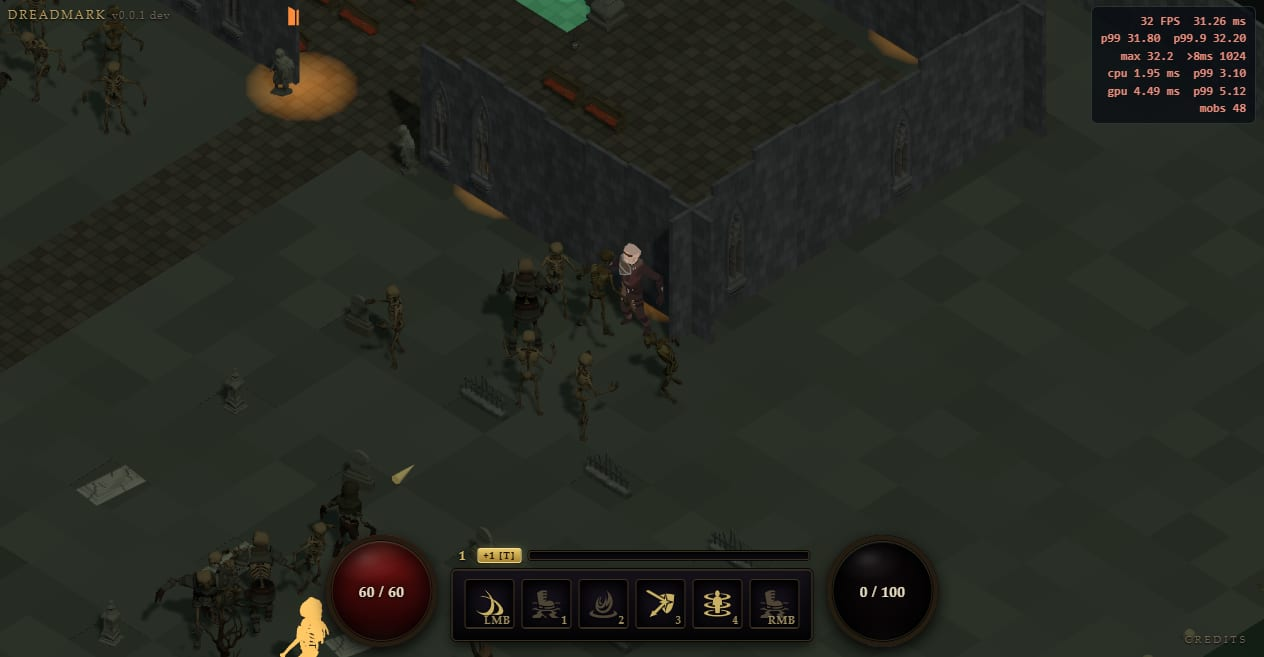
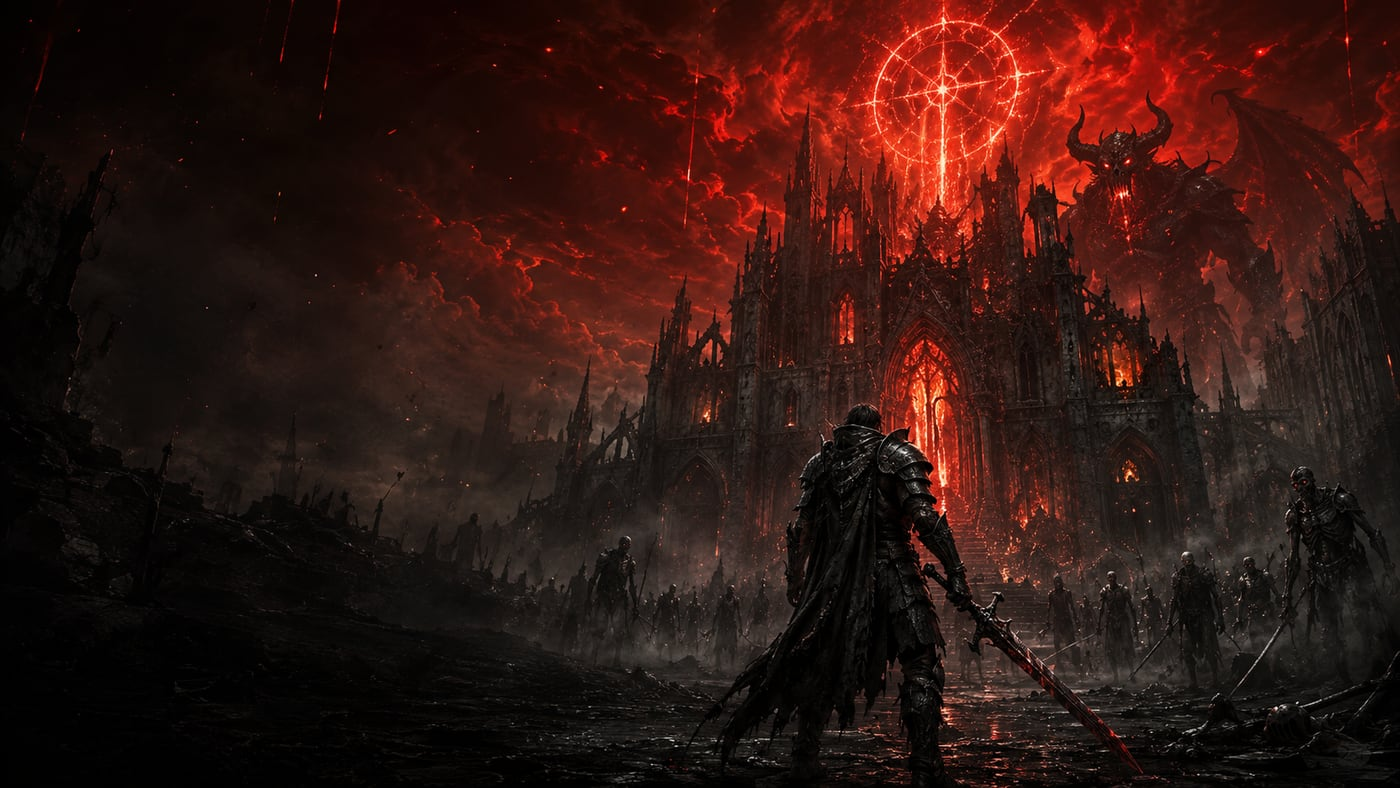
feat(portfolio): screenshots for private projects, portrait fit, homelab rename
- Rename "Production-Grade Homelab" → "Private Cloud Infrastructure"; use the
  real architecture diagram with the "Homelab" header cropped off
- Dreadmark: swap gameplay shot for AI key art
- NoBS: data-fit="contain" so portrait phone screenshots show the whole screen
- CloudDrive + Vehicle Telemetry: add screenshots (kept as private cards);
  vehicle sheet has home/work address columns redacted before publishing

diff --git a/index.html b/index.html
@@ -6,7 +6,7 @@
     <title>Codecraft AS — Software & Automation Engineering</title>
     <link rel="icon" type="image/svg+xml" href="favicon.svg">
     <meta name="description" content="Codecraft AS — Software engineering consultancy specializing in industrial control systems, subsea software, and AI-augmented development for the oil & gas and energy sectors.">
-    <link rel="stylesheet" href="styles.css?v=6">
+    <link rel="stylesheet" href="styles.css?v=7">
     <link rel="preconnect" href="https://fonts.googleapis.com">
     <link rel="preconnect" href="https://fonts.gstatic.com" crossorigin>
     <link href="https://fonts.googleapis.com/css2?family=Inter:wght@300;400;500;600;700;800&display=swap" rel="stylesheet">
@@ -172,7 +172,7 @@
                         <span class="ai-card-cta"><span data-en="View details" data-no="Se detaljer">View details</span> →</span>
                     </div>
                     <div class="ai-card ai-card--modal" role="button" tabindex="0"
-                         data-private="1">
+                         data-shot="images/projects/clouddrive.jpg?v=1" data-private="1">
                         <span class="ai-badge" data-en="Private" data-no="Privat">Private</span>
                         <div class="ai-card-icon">
                             <svg viewBox="0 0 24 24" fill="none" stroke="currentColor" stroke-width="2"><path d="M12 2L4 6v6c0 5 3.5 9.5 8 10 4.5-0.5 8-5 8-10V6l-8-4z"/></svg>
@@ -182,7 +182,7 @@
                         <span class="ai-card-cta"><span data-en="View details" data-no="Se detaljer">View details</span> →</span>
                     </div>
                     <div class="ai-card ai-card--modal" role="button" tabindex="0"
-                         data-private="1">
+                         data-shot="images/projects/vehicle.jpg?v=1" data-private="1">
                         <span class="ai-badge" data-en="Private" data-no="Privat">Private</span>
                         <div class="ai-card-icon">
                             <svg viewBox="0 0 24 24" fill="none" stroke="currentColor" stroke-width="2"><path d="M5 17h14M5 17l2-6h10l2 6M5 17v3h3v-3M16 17v3h3v-3"/><circle cx="8" cy="14" r="1"/><circle cx="16" cy="14" r="1"/></svg>
@@ -192,12 +192,12 @@
                         <span class="ai-card-cta"><span data-en="View details" data-no="Se detaljer">View details</span> →</span>
                     </div>
                     <div class="ai-card ai-card--modal" role="button" tabindex="0"
-                         data-shot="images/projects/homelab.jpg?v=1" data-private="1">
+                         data-shot="images/projects/homelab.jpg?v=2" data-private="1">
                         <span class="ai-badge" data-en="Private" data-no="Privat">Private</span>
                         <div class="ai-card-icon">
                             <svg viewBox="0 0 24 24" fill="none" stroke="currentColor" stroke-width="2"><rect x="3" y="4" width="18" height="6" rx="1"/><rect x="3" y="14" width="18" height="6" rx="1"/><circle cx="7" cy="7" r="0.5" fill="currentColor"/><circle cx="7" cy="17" r="0.5" fill="currentColor"/></svg>
                         </div>
-                        <h3 data-en="Production-Grade Homelab" data-no="Hjemmelab i produksjonskvalitet">Production-Grade Homelab</h3>
+                        <h3 data-en="Private Cloud Infrastructure" data-no="Privat sky-infrastruktur">Private Cloud Infrastructure</h3>
                         <p data-en="A multi-server environment evolved over two years into a small private cloud — 15+ services across web apps, automation, monitoring, and home systems. Standardised deployment pipeline, layered defence-in-depth security, three-tier backups with rehearsed recovery, and a living architecture reference maintained like a runbook." data-no="Et multi-server-miljø utviklet over to år til en liten privat sky — 15+ tjenester på tvers av webapper, automatisering, overvåking og hjemmesystemer. Standardisert utrullingspipeline, lagdelt defence-in-depth-sikkerhet, tre-lags backup med øvd gjenoppretting, og en levende arkitekturreferanse vedlikeholdt som en runbook.">A multi-server environment evolved over two years into a small private cloud — 15+ services across web apps, automation, monitoring, and home systems. Standardised deployment pipeline, layered defence-in-depth security, three-tier backups with rehearsed recovery, and a living architecture reference maintained like a runbook.</p>
                         <span class="ai-card-cta"><span data-en="View details" data-no="Se detaljer">View details</span> →</span>
                     </div>
@@ -223,7 +223,7 @@
                         <span class="ai-card-cta"><span data-en="View details" data-no="Se detaljer">View details</span> →</span>
                     </div>
                     <div class="ai-card ai-card--modal" role="button" tabindex="0"
-                         data-shot="images/projects/dreadmark.jpg?v=1">
+                         data-shot="images/projects/dreadmark.jpg?v=2">
                         <span class="ai-badge ai-badge--dev" data-en="In dev" data-no="Under utvikling">In dev</span>
                         <div class="ai-card-icon">
                             <svg viewBox="0 0 24 24" fill="none" stroke="currentColor" stroke-width="2" stroke-linecap="round" stroke-linejoin="round"><polyline points="14.5 17.5 3 6 3 3 6 3 17.5 14.5"/><line x1="13" y1="19" x2="19" y2="13"/><line x1="16" y1="16" x2="20" y2="20"/><line x1="19" y1="21" x2="21" y2="19"/></svg>
@@ -234,6 +234,7 @@
                     </div>
                     <div class="ai-card ai-card--modal" role="button" tabindex="0"
                          data-shot="images/projects/nobs.jpg?v=1" data-shot2="images/projects/nobs-2.jpg?v=1"
+                         data-fit="contain"
                          data-link="https://nobs.codecrafts.cc" data-link-label="nobs.codecrafts.cc">
                         <span class="ai-badge ai-badge--live" data-en="Live" data-no="Live">Live</span>
                         <div class="ai-card-icon">
@@ -571,6 +572,6 @@
         </div>
     </div>
 
-    <script src="script.js?v=4"></script>
+    <script src="script.js?v=5"></script>
 </body>
 </html>

diff --git a/styles.css b/styles.css
@@ -1172,6 +1172,16 @@ section { padding: 120px 0; }
     background: var(--bg-secondary);
 }
 
+/* Portrait / app screenshots: show the whole screen, don't crop-zoom */
+.modal-img--contain {
+    object-fit: contain;
+    max-height: 540px;
+    padding: 12px;
+    background:
+        radial-gradient(120% 90% at 50% 0%, rgba(6, 182, 212, 0.06), transparent 60%),
+        var(--bg-secondary);
+}
+
 .modal-thumbs {
     display: flex;
     gap: 8px;

diff --git a/script.js b/script.js
@@ -161,6 +161,7 @@
             if (shots.length) {
                 img.src = shots[0];
                 img.alt = (card.querySelector('h3') || {}).textContent || '';
+                img.classList.toggle('modal-img--contain', card.dataset.fit === 'contain');
                 media.hidden = false;
                 buildThumbs(shots);
             } else {

diff --git a/CODE-MAP.md b/CODE-MAP.md
@@ -11,6 +11,10 @@ AI-first: the site leads with AI-engineering as the core offering, with 8 years 
 industrial/subsea automation delivery as the credibility foundation (not the headline).
 Keep that balance when editing copy — AI is the method, automation is the proof.
 
+Naming: never call the private-cloud project a "homelab" in copy — it is
+"Private Cloud Infrastructure". Its diagram image (`homelab.jpg`) is captured from
+`../homelab-architecture` with the top header (which reads "Defcon Homelab") cropped off.
+
 ## Layout
 - `index.html` — all content. Sections in order (each `<section id=…>`):
   `hero → about → founder → ai → services → projects → websites → contact → footer`.
@@ -36,6 +40,8 @@ Every user-visible string carries BOTH `data-en` and `data-no`; `setLanguage` sw
   (Live/Private/In dev) into the modal. Title/description are pulled from the card's `h3`/`p`.
 - No screenshot for a card → modal hides its media block (CloudDrive, Vehicle Telemetry,
   Smart Home currently have none).
+- `data-fit="contain"` on a card → modal image uses `object-fit: contain` instead of
+  cover (for portrait/phone app screenshots that would otherwise crop-zoom, e.g. NoBS).
 
 ## Images
 - `images/projects/` — card/modal screenshots, JPEG q82 (~1 MB total). Source-of-truth originals
